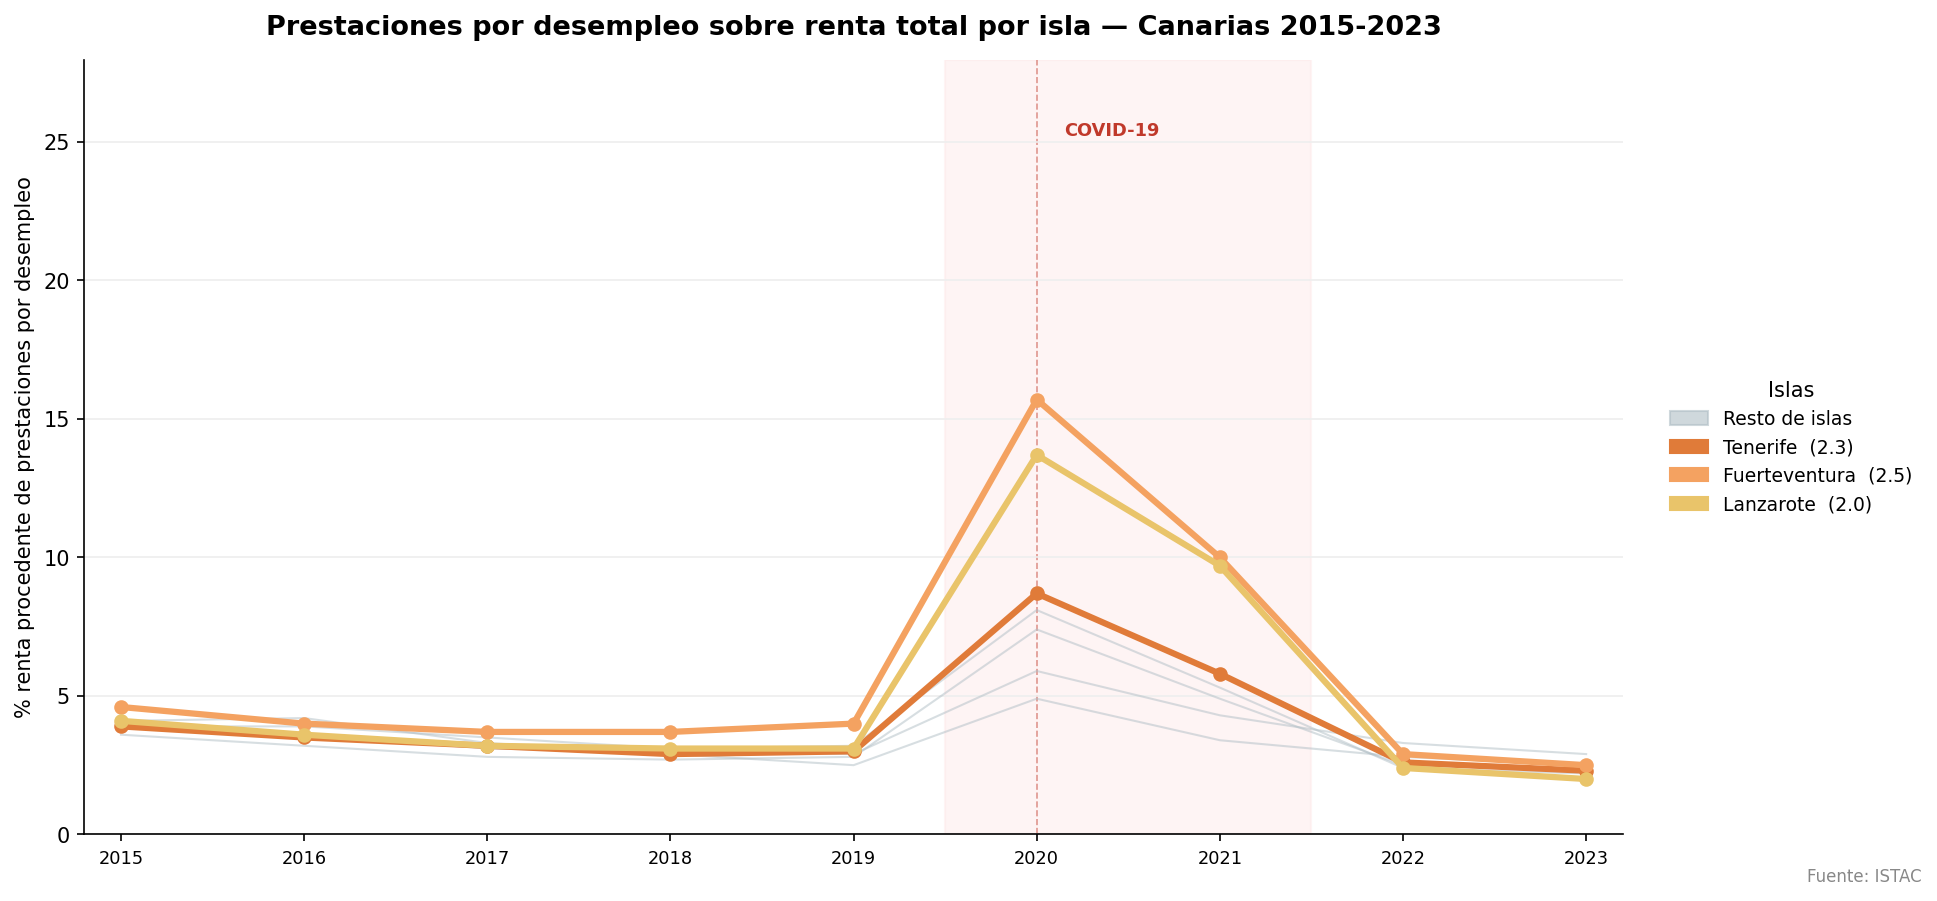
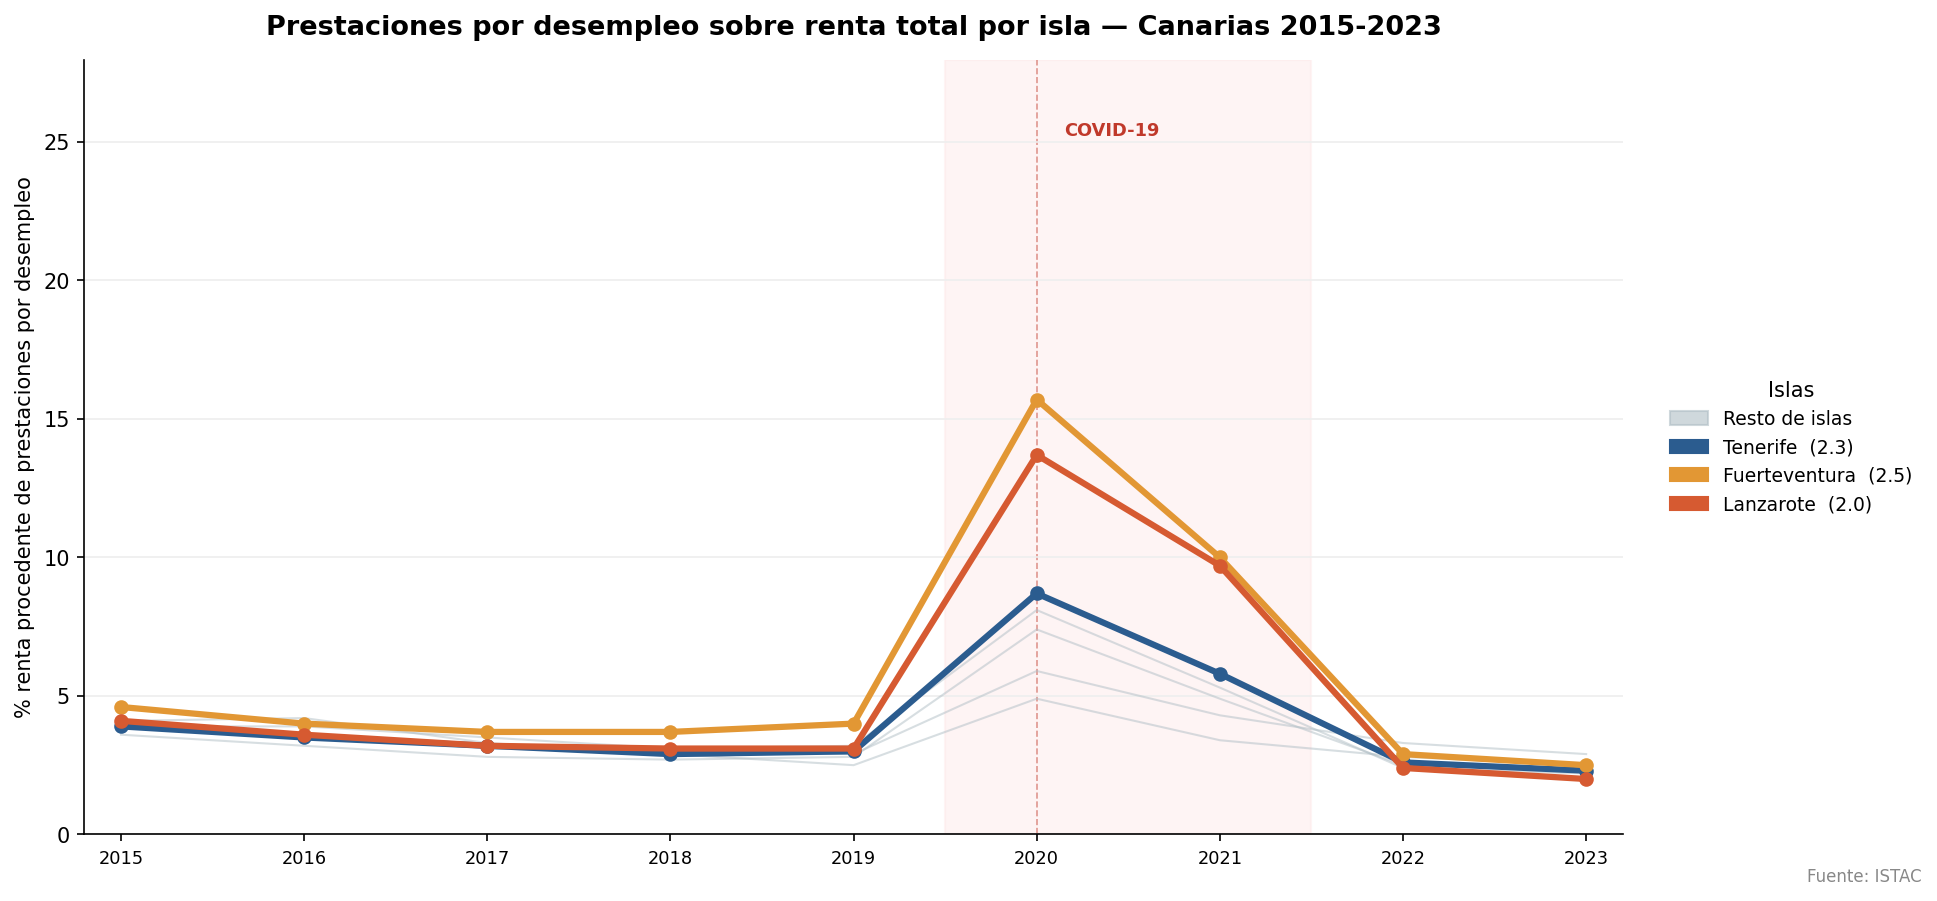
update colores

diff --git a/assets_proyecto5/plots_assets.py b/assets_proyecto5/plots_assets.py
@@ -143,13 +143,13 @@ ISLAS_ORDEN = [
 ]
 
 COLORES_ISLA = {
-    "Tenerife":      "#2B5C8F",
-    "Gran Canaria":  "#3E9B8D",
-    "Lanzarote":     "#D65A31",
-    "Fuerteventura": "#E29734",
-    "La Palma":      "#4F8A3F",
-    "La Gomera":     "#A262A8",
-    "El Hierro":     "#8C7864",
+    "Tenerife":      "#1B9E77",
+    "Gran Canaria":  "#D95F02",
+    "Lanzarote":     "#7570B3",
+    "Fuerteventura": "#E7298A",
+    "La Palma":      "#66A61E",
+    "La Gomera":     "#E6AB02",
+    "El Hierro":     "#A6761D",
 }
 
 COLOR_RESTO_ISLAS = "#b0bec5"
